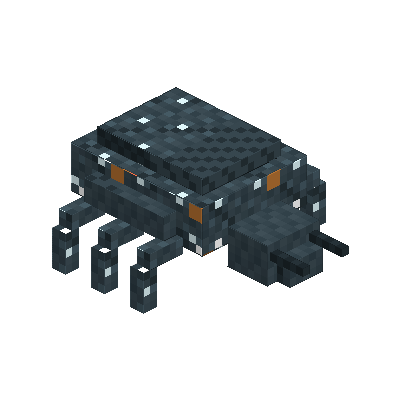
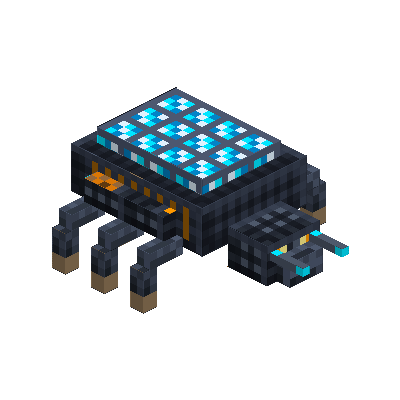
refactor(art): overhaul Nomad Scavenger and Aquifer Beetle textures, update galleries (v1.19.61)

Changed region(s): [[0.12, 0.21, 0.87, 0.78]]

diff --git a/src/test/java/com/fhfelipefh/sandstorm/architecture/DesertMobEcosystemArchitectureTest.java b/src/test/java/com/fhfelipefh/sandstorm/architecture/DesertMobEcosystemArchitectureTest.java
@@ -60,7 +60,7 @@ class DesertMobEcosystemArchitectureTest {
     void versionMustMatchCurrentRelease() throws IOException {
         Path gradleProps = Path.of("gradle.properties");
         String content = Files.readString(gradleProps);
-        assertTrue(content.contains("version=1.19.59"), "gradle.properties must be 1.19.58");
+        assertTrue(content.contains("version=1.19.61"), "gradle.properties must be 1.19.61");
     }
 
     @Test

diff --git a/src/test/java/com/fhfelipefh/sandstorm/architecture/WardenAndroidAndReactorArchitectureTest.java b/src/test/java/com/fhfelipefh/sandstorm/architecture/WardenAndroidAndReactorArchitectureTest.java
@@ -86,7 +86,7 @@ public class WardenAndroidAndReactorArchitectureTest {
     @Test
     public void testVersionBumped() throws IOException {
         String content = Files.readString(Path.of("gradle.properties"));
-        assertTrue(content.contains("version=1.19.59"), "Version must be bumped to 1.19.59");
+        assertTrue(content.contains("version=1.19.61"), "Version must be bumped to 1.19.61");
     }
 }
 
